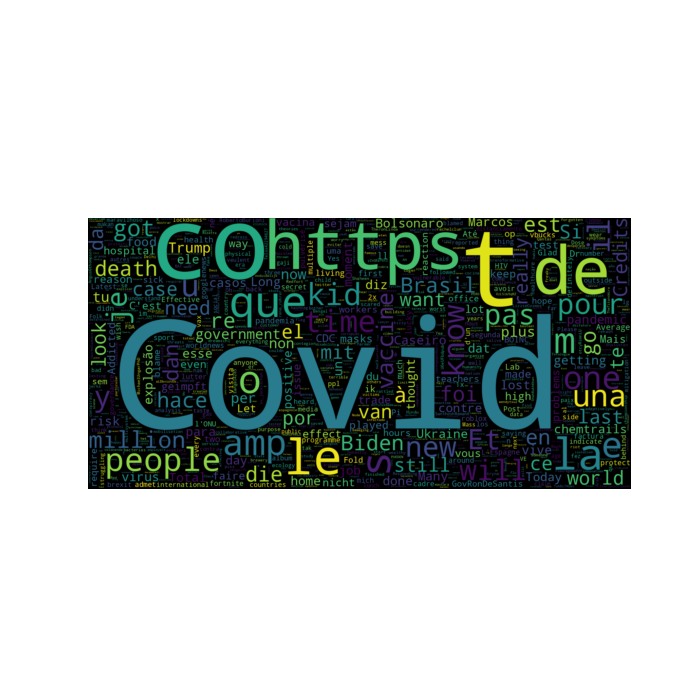
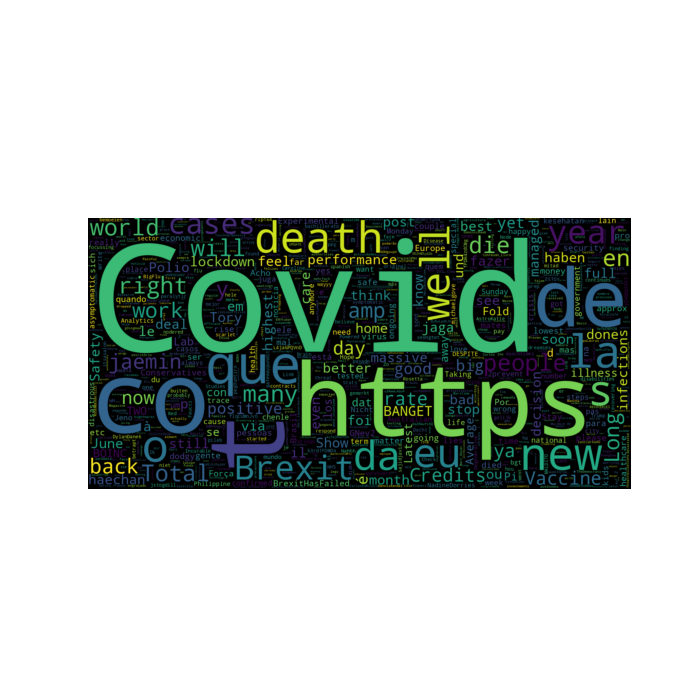
use pipeline sentiment analyzer

Changed region(s): [[0.12, 0.3, 0.9, 0.72]]

diff --git a/src/app.py b/src/app.py
@@ -3,13 +3,22 @@ import streamlit as st
 import pandas as pd
 import numpy as np
 import matplotlib.pyplot as plt
+import pickle
 from PIL import Image
 from function import generate_word_cloud
+from sklearn.feature_extraction.text import TfidfVectorizer
+from transformers import pipeline
+
 
 # STREMLIT APP
 st.title('Emotion Analaysis on tweets')
 
 def run():
+    # load the model from disk
+    filename = 'lr_model.sav'
+    loaded_model = pickle.load(open(filename, 'rb'))
+    classifier = pipeline('sentiment-analysis')
+
     with st.form(key='Hashtag'):
         search_hashtag = st.text_input('Enter the hashtag for which you want to know the emotion prediction statistics')
         number_of_tweets = st.number_input('Enter the number of latest tweets for which you want to know the sentiment (Maximum 50 tweets)', 0, 10000, 100)
@@ -19,22 +28,30 @@ def run():
             # SCRAPING
             tweet_list = get_tweets(search_hashtag, number_of_tweets)
 
+            # NORMALIZATION
+            # tweet_normalized = [cleaning_tweet(t) for t in tweet_list]
+
+            # #VECTORIZATION
+            # vectorizer = TfidfVectorizer(ngram_range=(1,2), max_features=500000)
+            # X = vectorizer.fit_transform(tweet_normalized)
+
             # MODEL PREDICTION
-            p = [i for i in tweet_list]
-            q = np.random.randint(0, 5, len(p))
+            p = [i for i in classifier(tweet_list)]
+            q = [p[i]['label'] for i in range(len(p))]
 
-            #DISPLAY RESULT IN DATAFRAME -> change to word cloud and graphic of purcentages
+
+            #DISPLAY RESULT IN DATAFRAME 
             df = pd.DataFrame(list(zip(tweet_list, q)), columns = ['tweet', 'emotion'])
-            # generate_word_cloud(df.tweet)
-            # word_cloud = Image.open("./img/wordcloud.png")
-            # st.image(word_cloud)
+            generate_word_cloud(df.tweet)
+            word_cloud = Image.open("./img/wordcloud.png")
+            st.image(word_cloud)
 
-             # statistics
+            # statistics
             emotion_proportion_df = df.groupby(by=['emotion']).count()
             plt.figure(figsize = (20,20));
             emotion_proportion_df["tweet"].plot(kind="bar")
             st.pyplot(plt)
-          
+        
             st.table(df)
             
 
